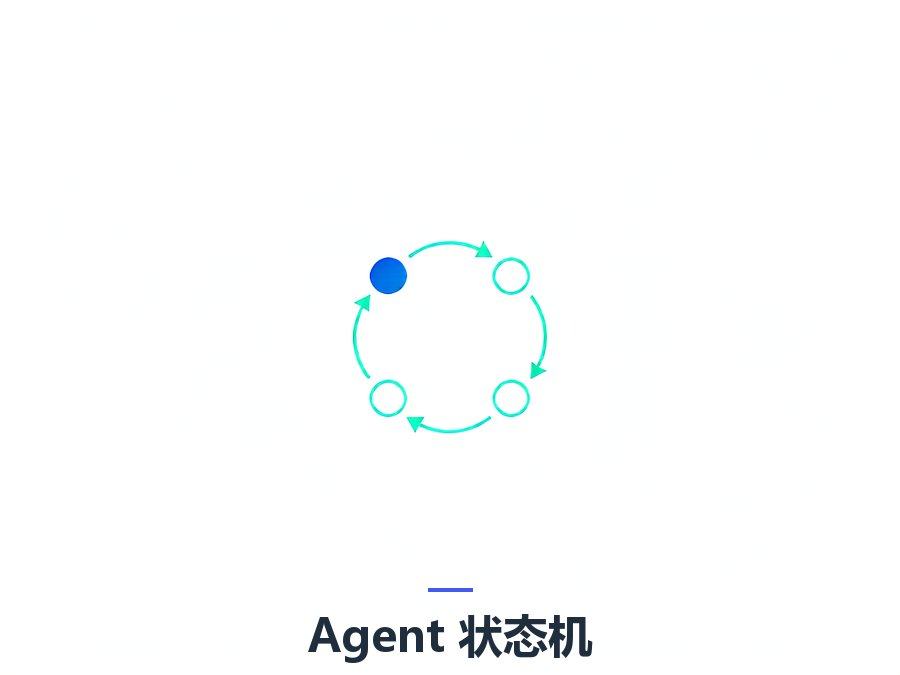
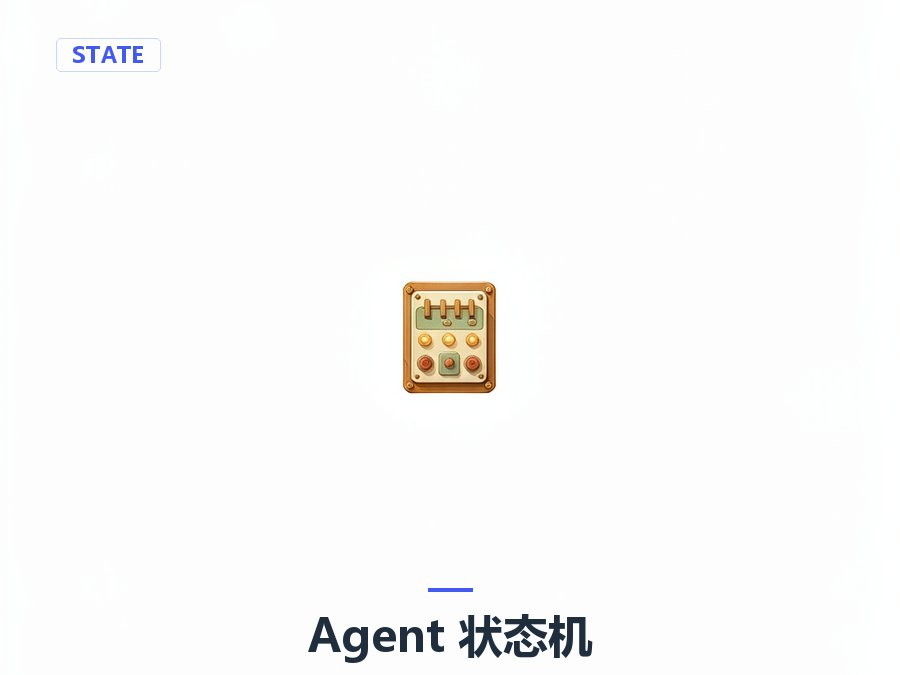
cover: agent 系列 + 设计模式系列 8 篇文章封面全部换为暖色系新配色

Changed region(s): [[0.3733, 0.3422, 0.5911, 0.6533], [0.5911, 0.4356, 0.6222, 0.56], [0.0622, 0.0622, 0.1556, 0.0933]]

diff --git a/tools/magpie-covers.py b/tools/magpie-covers.py
@@ -55,6 +55,14 @@ LABELS = {
     'pi-extension-events': 'EVENTS',
     'pi-tui-rendering': 'RENDER',
     'json-family-protocols': 'JSON',
+    'agent-state-machines': 'STATE',
+    'ai-critical-thinking': 'READ',
+    'cover-code-review': 'REVIEW',
+    'super-agent-designs': 'AGENT',
+    'agents-going-async': 'ASYNC',
+    'design-patterns-creational': 'CREATE',
+    'design-patterns-behavioral': 'BEHAVE',
+    'design-patterns-structural': 'STRUCT',
 }
 
 # ── 底部小标题（TEXTS 里的 key = PROMPTS 里的 key）──
@@ -68,6 +76,14 @@ TEXTS = {
     'pi-extension-events':     '扩展与事件',
     'pi-tui-rendering':     '终端渲染',
     'json-family-protocols':     'JSON 家族辨析',
+    'agent-state-machines':     'Agent 状态机',
+    'ai-critical-thinking':     '批判性思考',
+    'cover-code-review':     '代码审查',
+    'super-agent-designs':     'Super Agent',
+    'agents-going-async':     '异步编排',
+    'design-patterns-creational':     '创建型模式',
+    'design-patterns-behavioral':     '行为型模式',
+    'design-patterns-structural':     '结构型模式',
 }
 
 PROMPTS = {
@@ -80,6 +96,14 @@ PROMPTS = {
     'pi-extension-events':    'minimal composition, a small subject centered with huge empty space on all four sides, nothing near the frame edges, a small vintage wooden radio with a few hanging amber light bulbs connected by thin wires, signal and connection concept, warm amber glow, on a pure white background, bright white, ' + STYLE,
     'pi-tui-rendering':    'minimal composition, a single small subject centered with very large empty margins on all four sides, a small old-style desktop computer with a green-screen display showing neat monochrome text lines on it, warm beige retro computer tones, ' + STYLE,
     'json-family-protocols':    'minimal composition, a small subject centered with huge empty space on all four sides, nothing near the frame edges, a wooden shelf with five small differently shaped glass jars, each jar holding a different kind of warm-colored small items (paper slips, wooden beads, brass gears, rubber stamps), sorting and comparing concept, on a pure white background, bright white, ' + STYLE,
+    'agent-state-machines':    'minimal composition, a small subject centered with huge empty space on all four sides, nothing near the frame edges, a small mechanical relay control panel with a few levers and warm indicator lights, deterministic control concept, on a pure white background, bright white, ' + STYLE,
+    'ai-critical-thinking':    'minimal composition, a small subject centered with huge empty space on all four sides, nothing near the frame edges, a person sitting at a small desk reading an open book under a warm desk lamp, deep thinking concept, warm wood desk tones, on a pure white background, bright white, ' + STYLE,
+    'cover-code-review':    'minimal composition, a small subject centered with huge empty space on all four sides, nothing near the frame edges, a paper checklist with a magnifying glass and a red rubber stamp resting on it, review concept, warm cream paper tones, on a pure white background, bright white, ' + STYLE,
+    'super-agent-designs':    'minimal composition, a small subject centered with huge empty space on all four sides, nothing near the frame edges, a small self-driving rover with sensors on a little track, autonomous system concept, warm metal and wood tones, on a pure white background, bright white, ' + STYLE,
+    'agents-going-async':    'minimal composition, a small subject centered with huge empty space on all four sides, nothing near the frame edges, a small control desk with one big screen and one small worker device side by side connected by a cable, coordination concept, warm wood desk tones, on a pure white background, bright white, ' + STYLE,
+    'design-patterns-creational':    'minimal composition, a small subject centered with huge empty space on all four sides, nothing near the frame edges, a small factory machine with a conveyor belt carrying small products off the end, creation concept, warm metal and wood tones, on a pure white background, bright white, ' + STYLE,
+
+    'design-patterns-behavioral':    'minimal composition, a small subject centered with huge empty space on all four sides, nothing near the frame edges, a row of small brown birds perched side by side on a short wooden branch, coordinated group concept, warm wood branch tones, on a pure white background, bright white, ' + STYLE,
 }
 
 CAPTION_FONT = 'C:/Windows/Fonts/msyhbd.ttc'
